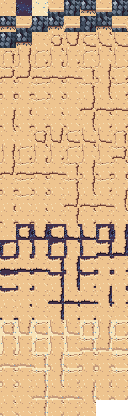
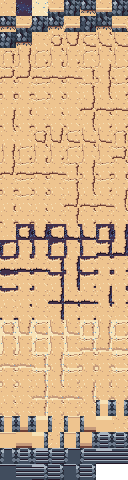
cliffs: emit ramp tiles into the sheet (238 tiles); desert preset lists both ramps
Wire the phase-1a rampTiles() (sandSlope, stoneSteps) into generateTerrain
and the desert preset, and derive frames.ts's composeSheet padding from
the real tile count instead of a hardcoded constant so it stays correct
as tile groups grow. cliff.png grows from 128x416 (8x26) to 128x480
(8x30); the determinism.test.ts cliff sha256 pin now intentionally fails
until Task 5 re-pins after visual approval.

diff --git a/tools/pipeline/src/cliffs/frames.ts b/tools/pipeline/src/cliffs/frames.ts
@@ -13,23 +13,27 @@
  *
  * ## Padding for composeSheet
  *
- * `DESERT_PRESETS` (phase 1: one preset) yields 206 named tiles — 3 fills +
- * 15 cliff + 47 plateau-edge + 3 * 47 pairings = 206. 206 has no divisor that
- * matches the other generated tilesets' column count (8, matching
- * `tiles*.png`): 206 = 2 * 103, and 103 is prime, so `composeSheet`'s
- * `frames.length % columns === 0` requirement can't be met by 206 frames at
- * 8 columns. Rather than pick an unrelated column count, we pad the frame
- * array with 2 blank (fully-transparent, all-`null`) 16x16 frames, appended
- * AFTER the 206 real frames, bringing the total to 208 = 8 * 26 (26 rows).
- * `cliffTileNames()` returns ONLY the 206 real names (indices 0..205); the 2
- * padding frames at indices 206..207 are never named and never referenced by
- * the manifest.
+ * `DESERT_PRESETS` (phase 1b: one preset) yields 238 named tiles — 3 fills +
+ * 15 cliff + 47 plateau-edge + 3 * 47 pairings + 2 * 16 ramps = 238. The real
+ * count has no guarantee of being a multiple of the other generated
+ * tilesets' column count (8, matching `tiles*.png`), so rather than pick an
+ * unrelated column count we pad the frame array with blank (fully
+ * transparent, all-`null`) 16x16 frames, appended AFTER the real frames,
+ * bringing the total up to the next multiple of 8. The pad count is
+ * *derived* from the real count (`COLUMNS - realCount % COLUMNS`, mod
+ * `COLUMNS` so an already-aligned count needs no padding) rather than
+ * hardcoded, so this stays correct as new tile groups (ramps, later
+ * additions) change the real count. At 238 real tiles that's 2 padding
+ * frames, for a total of 240 = 8 * 30 (30 rows).
+ * `cliffTileNames()` returns ONLY the real names (indices `0..realCount-1`);
+ * the padding frames after them are never named and never referenced by the
+ * manifest.
  */
 import { PixelGrid } from "../grid";
 import { generateTerrain } from "./generate";
 import { DESERT_PRESETS } from "./presets";
 
-const PADDING_FRAME_COUNT = 2;
+const COLUMNS = 8;
 
 function realEntries(): { name: string; grid: PixelGrid }[] {
   const seen = new Set<string>();
@@ -44,16 +48,17 @@ function realEntries(): { name: string; grid: PixelGrid }[] {
   return out;
 }
 
-/** The 206 real (non-padding) tile names, in the same order as the first
- *  206 entries of `cliffSheetFrames()`. */
+/** The real (non-padding) tile names, in the same order as the leading
+ *  entries of `cliffSheetFrames()`. */
 export function cliffTileNames(): string[] {
   return realEntries().map((e) => e.name);
 }
 
-/** The 206 real tiles followed by 2 blank/transparent padding frames (see
- *  module doc), for a total of 208 = 8 columns * 26 rows. */
+/** The real tiles followed by blank/transparent padding frames (see module
+ *  doc), bringing the total up to the next multiple of `COLUMNS`. */
 export function cliffSheetFrames(): PixelGrid[] {
   const frames = realEntries().map((e) => e.grid);
-  for (let i = 0; i < PADDING_FRAME_COUNT; i++) frames.push(new PixelGrid(16, 16));
+  const padCount = (COLUMNS - (frames.length % COLUMNS)) % COLUMNS;
+  for (let i = 0; i < padCount; i++) frames.push(new PixelGrid(16, 16));
   return frames;
 }

diff --git a/tests/pipeline/cliffs.test.ts b/tests/pipeline/cliffs.test.ts
@@ -239,25 +239,25 @@ describe("generateTerrain + desert presets", () => {
 });
 
 describe("cliff sheet assembly + pipeline wiring (Task 8)", () => {
-  it("cliffSheetFrames/cliffTileNames are parallel and names cover the 206 real (non-padding) frames", () => {
+  it("cliffSheetFrames/cliffTileNames are parallel and names cover the 238 real (non-padding) frames", () => {
     const names = cliffTileNames();
     const frames = cliffSheetFrames();
-    expect(names.length).toBe(206);
-    expect(frames.length).toBe(208); // 206 real + 2 blank padding frames
+    expect(names.length).toBe(238);
+    expect(frames.length).toBe(240); // 238 real + 2 blank padding frames
     expect(new Set(names).size).toBe(names.length); // unique
     frames.forEach((f) => {
       expect(f.width).toBe(16);
       expect(f.height).toBe(16);
     });
     // The 2 padding frames (last 2) are fully transparent.
-    for (const f of frames.slice(206)) {
+    for (const f of frames.slice(238)) {
       expect(f.countOpaque()).toBe(0);
     }
   });
 
-  it("cliffTileNames structure: no duplicates, count 206, valid tile-name strings", () => {
+  it("cliffTileNames structure: no duplicates, count 238, valid tile-name strings", () => {
     const names = cliffTileNames();
-    expect(names.length).toBe(206);
+    expect(names.length).toBe(238);
     expect(new Set(names).size).toBe(names.length); // no duplicates
     // every name is a valid tile-name string: non-empty, no whitespace,
     // only [A-Za-z0-9_] characters.
@@ -292,9 +292,9 @@ describe("cliff sheet assembly + pipeline wiring (Task 8)", () => {
       expect(m.cliff.names[n]).toBeGreaterThanOrEqual(0);
       expect(m.cliff.names[n]).toBeLessThan(frames.length);
     }
-    // composed sheet dims: 8 columns x 26 rows of 16x16 tiles.
+    // composed sheet dims: 8 columns x 30 rows of 16x16 tiles.
     expect(a.cliff.width).toBe(8 * 16);
-    expect(a.cliff.height).toBe(26 * 16);
+    expect(a.cliff.height).toBe(30 * 16);
   });
 });
 
@@ -332,5 +332,13 @@ describe("ramps", () => {
     const runSand = rampTiles(RP).find(t=>t.col==="middle"&&t.row==="run")!.grid;
     const runSteps = s.find(t=>t.col==="middle"&&t.row==="run")!.grid;
     expect(runSand.diff(runSteps)).toBeGreaterThan(0);
+  });
+
+  it("desert preset emits the ramp tiles; total sheet is 238 named tiles", () => {
+    const out = generateTerrain(DESERT_PRESETS[0]).map(o=>o.name);
+    expect(out.filter(n=>n.startsWith("rampSand_")).length).toBe(16);
+    expect(out.filter(n=>n.startsWith("rampSteps_")).length).toBe(16);
+    expect(new Set(out).size).toBe(out.length);   // unique
+    expect(out.length).toBe(238);                 // 206 + 32
   });
 });

diff --git a/tools/pipeline/src/cliffs/generate.ts b/tools/pipeline/src/cliffs/generate.ts
@@ -46,6 +46,7 @@ import { floorFill } from "./terrains";
 import { blobTiles } from "./blob47";
 import { wallFace, type MaterialKey } from "./materials";
 import { cliffTiles } from "./cliffFace";
+import { rampTiles, type RampMaterial } from "./ramps";
 
 export type TerrainParams = {
   // material — the wall/cliff face texture (the pluggable seam)
@@ -83,6 +84,9 @@ export type TerrainParams = {
   plateauTop: TerrainKey;
   ground: TerrainKey;
   seed: number;
+  // ramp materials to emit for this preset (phase 1b) — each yields 16
+  // named ramp tiles (see ramps.ts).
+  ramps: RampMaterial[];
 };
 
 const VARIANT_NAMES = ["outerW", "mid", "outerE", "innerW", "innerE"] as const;
@@ -177,6 +181,22 @@ export function generateTerrain(p: TerrainParams): { name: string; grid: PixelGr
     });
     const name = `${pr.over}${capitalize(pr.base)}`;
     for (const t of tiles) out.push({ name: `${name}_${t.mask}`, grid: t.grid });
+  }
+
+  // Ramp tiles (16 each) — one set per requested ramp material, appended
+  // after every other group so existing indices never shift.
+  for (const m of p.ramps) {
+    const tiles = rampTiles({
+      material: m,
+      terrain: p.plateauTop,
+      wall: p.material,
+      height: p.cliffHeight,
+      slope: 0.5,
+      steps: 3,
+      seed: p.seed,
+    });
+    const prefix = m === "sandSlope" ? "rampSand" : "rampSteps";
+    for (const t of tiles) out.push({ name: `${prefix}_${t.col}_${t.row}`, grid: t.grid });
   }
 
   return out;

diff --git a/tools/pipeline/src/cliffs/presets.ts b/tools/pipeline/src/cliffs/presets.ts
@@ -58,6 +58,10 @@ const DESERT_ROCK_CLIFF: TerrainParams = {
   ground: "sand",
 
   seed: 1337,
+
+  // Ramp materials (phase 1b) — a sand-slope incline and a carved-stone
+  // stair set, both cut through this preset's rock cliff (generate.ts).
+  ramps: ["sandSlope", "stoneSteps"],
 };
 
 export const DESERT_PRESETS: TerrainParams[] = [DESERT_ROCK_CLIFF];

diff --git a/tools/pipeline/src/manifest.ts b/tools/pipeline/src/manifest.ts
@@ -278,8 +278,8 @@ export function buildManifest(): Manifest {
       columns: 8,
       names: tileNames(owMountainNames)
     },
-    // cliff.png: 208 frames (206 real + 2 blank padding, see cliffs/frames.ts)
-    // laid out 8 columns x 26 rows; only the 206 real names are exposed here.
+    // cliff.png: 240 frames (238 real + 2 blank padding, see cliffs/frames.ts)
+    // laid out 8 columns x 30 rows; only the 238 real names are exposed here.
     cliff: { file: "cliff.png", tileSize: TILE_SIZE, columns: 8, names: tileNames(cliffTileNames()) }
   };
 }